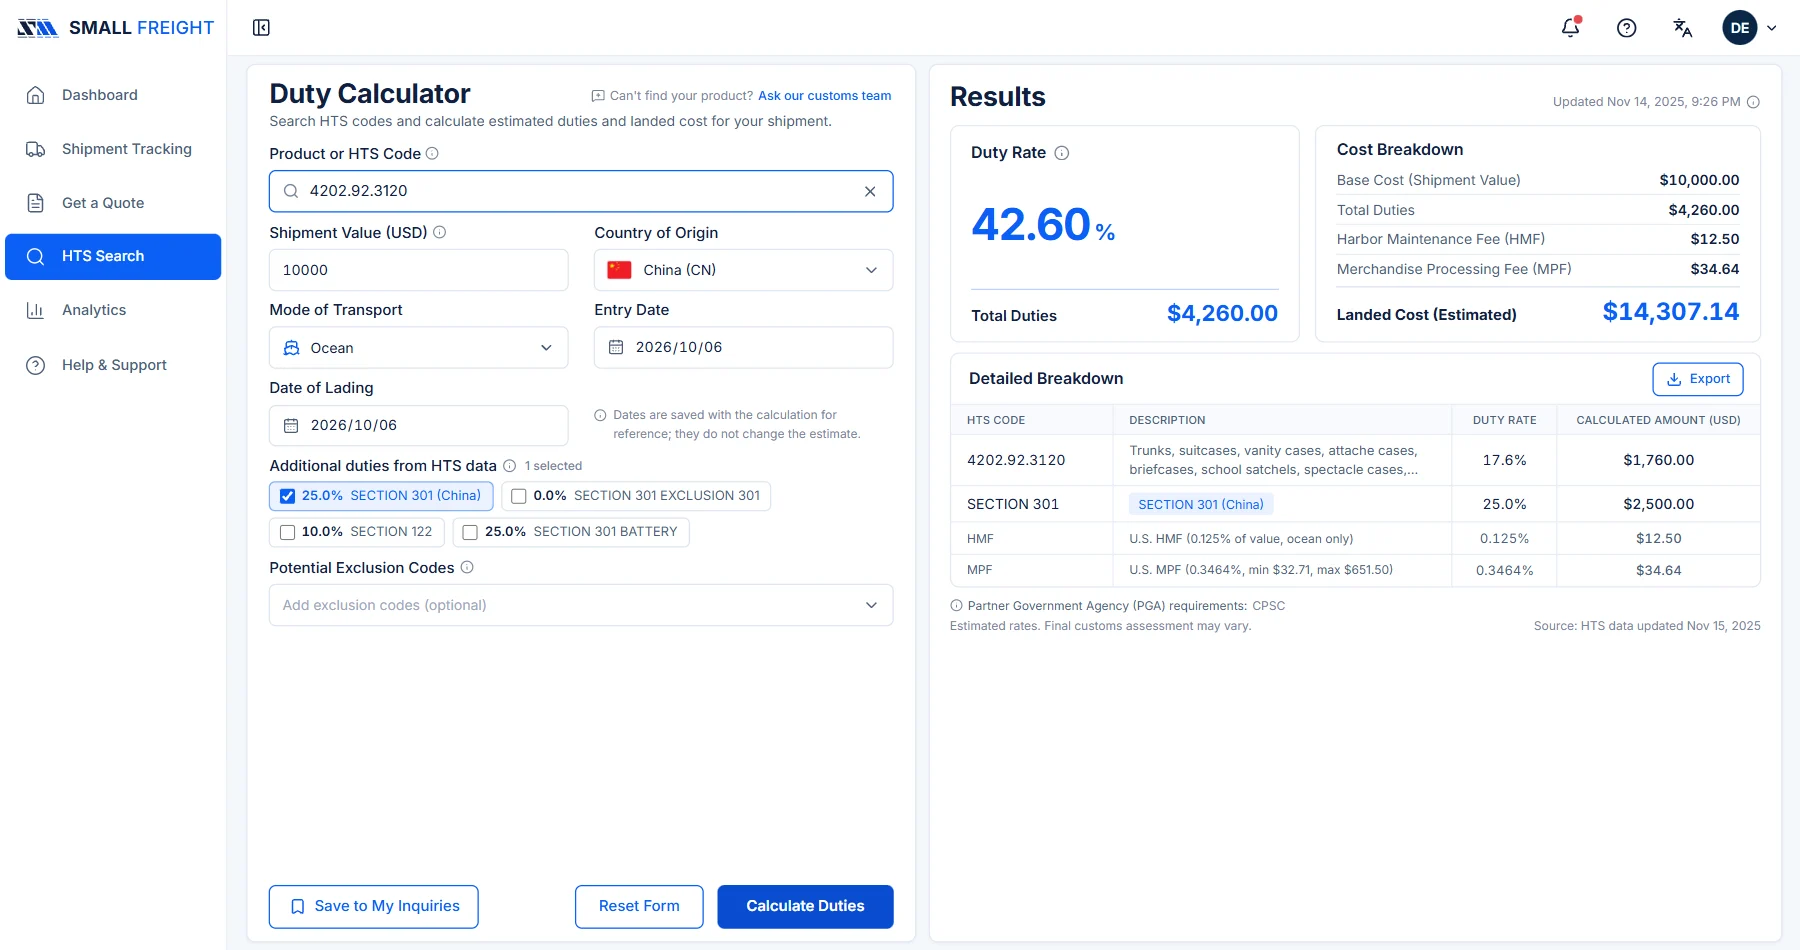
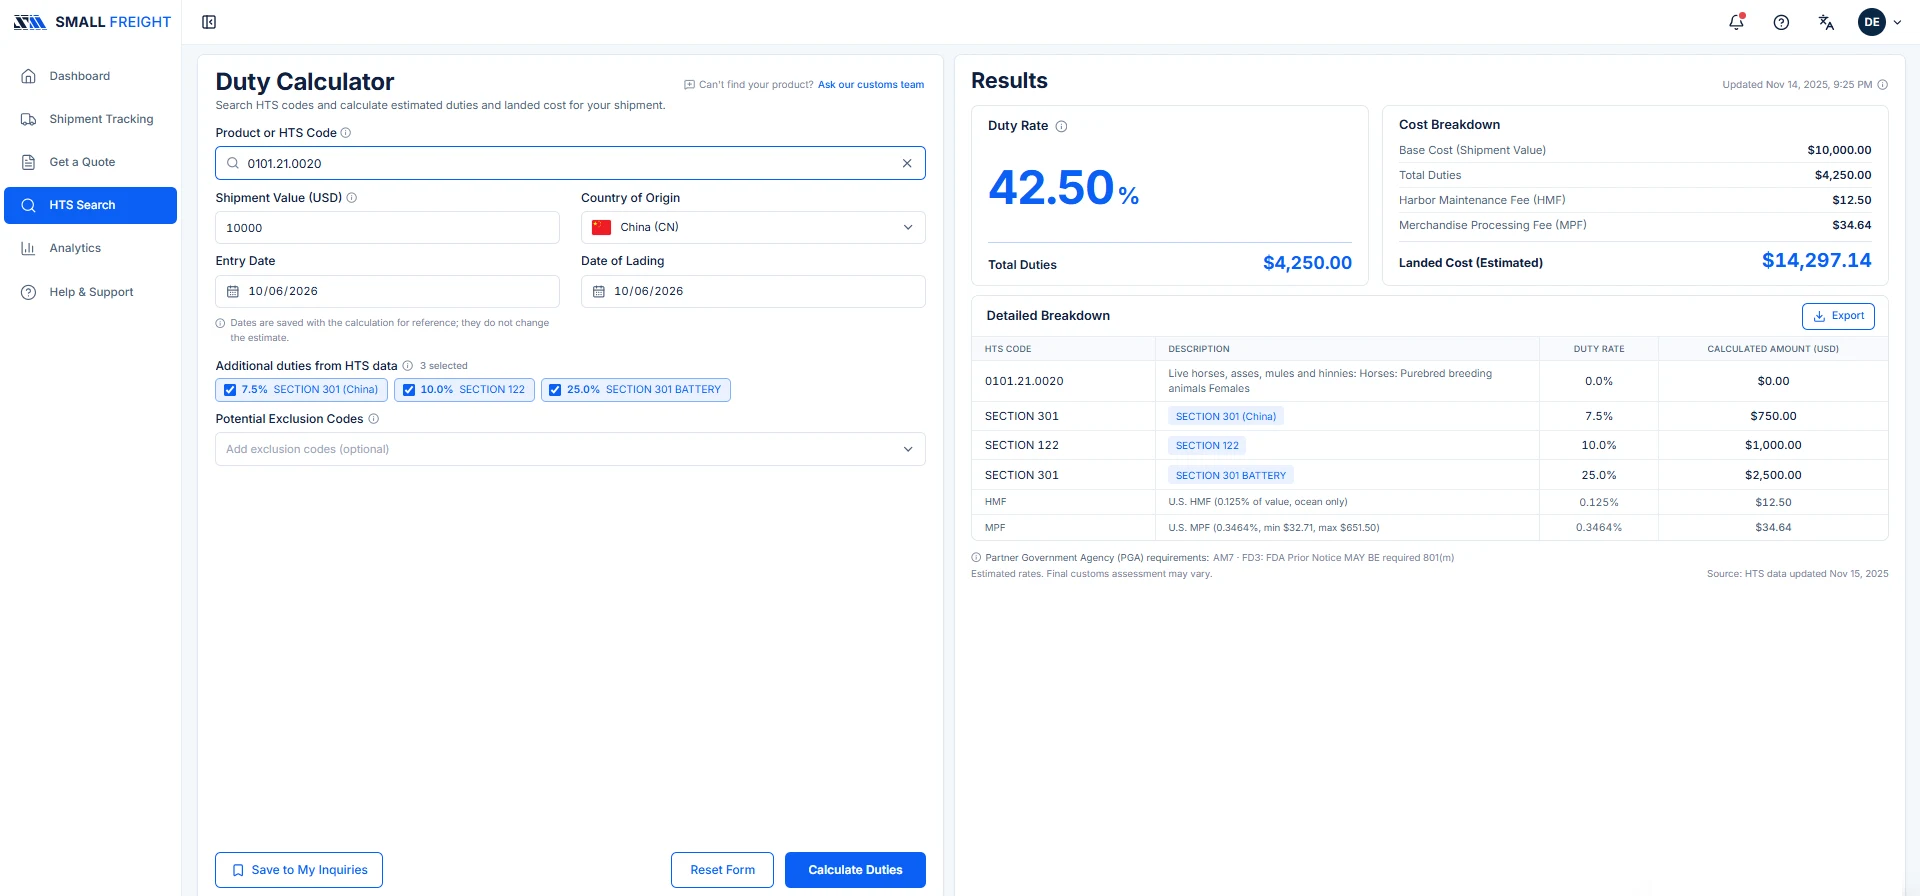
Small Freight page: use the provided portal screenshots
Replaces the screenshots with the ones from image10 (header badge and
input-method toolbar removed, cropped to content), and swaps the photos
from the previous, misplaced image10 batch for existing site images.

diff --git a/small-freight.html b/small-freight.html
@@ -62,7 +62,7 @@
 
   <!-- ======================== HERO ======================== -->
   <section class="sp-hero sf-hero">
-    <img src="image/sf-hero.jpg" alt="" class="sp-hero-bg sf-hero-bg" />
+    <img src="image/hero-port.jpg" alt="" class="sp-hero-bg sf-hero-bg" />
     <div class="container sp-hero-grid">
       <div class="sp-hero-text">
         <div class="sf-brand reveal">
@@ -84,7 +84,7 @@
       </div>
 
       <div class="sp-app sp-shot sp-hero-app reveal">
-        <img src="image/sf-shot-dashboard.webp" width="1800" height="950" alt="SMALL FREIGHT dashboard with shipment search, LTL and drayage quote forms, HTS search, recent shipments and a shipment overview chart" />
+        <img src="image/sf-shot-dashboard.webp" width="1920" height="670" alt="SMALL FREIGHT dashboard with shipment search, LTL and drayage quote forms, HTS search, recent shipments and a shipment overview chart" />
       </div>
     </div>
   </section>
@@ -136,28 +136,28 @@
       </div>
       <div class="sf-benefits stagger-reveal">
         <div class="sf-benefit">
-          <img src="image/sf-packing.jpg" alt="Warehouse worker packing a carton" loading="lazy" />
+          <img src="image/wh-pack.jpg" alt="Warehouse staff packing cartons" loading="lazy" />
           <div>
             <b data-zh="节省时间">Save Time</b>
             <span data-zh="自助式工具让日常物流工作更高效。">Self-service tools that streamline your logistics workflow.</span>
           </div>
         </div>
         <div class="sf-benefit">
-          <img src="image/sf-loading.jpg" alt="Forklift loading pallets into a trailer at a dock door" loading="lazy" />
+          <img src="image/wh-ship.jpg" alt="Delivery truck at the warehouse loading docks" loading="lazy" />
           <div>
             <b data-zh="降低成本">Reduce Costs</b>
             <span data-zh="比较报价，提前估算到岸成本。">Compare rates and estimate total landed costs upfront.</span>
           </div>
         </div>
         <div class="sf-benefit">
-          <img src="image/sf-yard.jpg" alt="Inspector checking containers in a port yard" loading="lazy" />
+          <img src="image/svc-customs.jpg" alt="Customs clearance at a port" loading="lazy" />
           <div>
             <b data-zh="提升可视化">Increase Visibility</b>
             <span data-zh="实时更新与关键节点，追踪每一票货物。">Track every shipment with real-time updates and key milestones.</span>
           </div>
         </div>
         <div class="sf-benefit">
-          <img src="image/sf-ocean.jpg" alt="Container ship leaving a port" loading="lazy" />
+          <img src="image/svc-ocean.jpg" alt="Container ship at sea" loading="lazy" />
           <div>
             <b data-zh="放心运输">Ship with Confidence</b>
             <span data-zh="行业经验与专属客服团队全程支持。">Backed by industry expertise and dedicated customer support.</span>
@@ -183,7 +183,7 @@
         <a href="track.html" class="sp-btn sp-btn-primary sf-feature-btn reveal"><span data-zh="追踪货物">Track a Shipment</span> <svg width="16" height="16" viewBox="0 0 24 24" fill="none" stroke="currentColor" stroke-width="2.5" stroke-linecap="round" stroke-linejoin="round" aria-hidden="true"><line x1="5" y1="12" x2="19" y2="12"/><polyline points="12 5 19 12 12 19"/></svg></a>
       </div>
       <div class="sp-app sp-shot reveal">
-        <img src="image/sf-shot-shipments.webp" width="1800" height="950" alt="Shipment detail with a milestone bar from Booked to Delivered, route map from Hamburg to Long Beach, tracking history and shipment details" loading="lazy" />
+        <img src="image/sf-shot-shipments.webp" width="1920" height="812" alt="Shipment Tracking list with status filters and a milestone progress bar from Booked to Delivered for each shipment" loading="lazy" />
       </div>
     </div>
   </section>
@@ -241,14 +241,14 @@
         <a href="https://coolcopa0303-png.github.io/smallfreight/login/" target="_blank" rel="noopener" class="sp-btn sp-btn-primary sf-feature-btn reveal"><span data-zh="获取 LTL 报价">Get an LTL Quote</span> <svg width="16" height="16" viewBox="0 0 24 24" fill="none" stroke="currentColor" stroke-width="2.5" stroke-linecap="round" stroke-linejoin="round" aria-hidden="true"><line x1="5" y1="12" x2="19" y2="12"/><polyline points="12 5 19 12 12 19"/></svg></a>
       </div>
       <div class="sp-app sp-shot reveal">
-        <img src="image/sf-shot-ltl.webp" width="1800" height="950" alt="LTL quote from College Point, NY to Chicago, IL with a route map, route details and six carrier rates" loading="lazy" />
+        <img src="image/sf-shot-ltl.webp" width="1920" height="891" alt="LTL quote from Fresh Meadows, NY to Whitestone, NY with a route map, route details and six carrier rates" loading="lazy" />
       </div>
     </div>
   </section>
 
   <!-- ======================== DRAYAGE ======================== -->
   <section class="sp-feature sf-drayage">
-    <img src="image/sf-truck.jpg" alt="" class="sf-section-bg" loading="lazy" />
+    <img src="image/im-port-truck.jpg" alt="" class="sf-section-bg" loading="lazy" />
     <div class="container sp-feature-grid">
       <div class="sp-feature-text">
         <span class="sp-kicker reveal" data-zh="港口到门">Port-to-Door Solutions</span>
@@ -263,7 +263,7 @@
         <a href="https://coolcopa0303-png.github.io/smallfreight/login/" target="_blank" rel="noopener" class="sp-btn sp-btn-primary sf-feature-btn reveal"><span data-zh="获取拖车报价">Get a Drayage Quote</span> <svg width="16" height="16" viewBox="0 0 24 24" fill="none" stroke="currentColor" stroke-width="2.5" stroke-linecap="round" stroke-linejoin="round" aria-hidden="true"><line x1="5" y1="12" x2="19" y2="12"/><polyline points="12 5 19 12 12 19"/></svg></a>
       </div>
       <div class="sp-app sp-shot reveal">
-        <img src="image/sf-shot-dray.webp" width="1800" height="950" alt="Drayage quote from the Port of Los Angeles to Ontario, CA with base rate, chassis, estimated total and route map" loading="lazy" />
+        <img src="image/sf-shot-dray.webp" width="1920" height="720" alt="Drayage quote from the Port of Los Angeles to Rancho Cucamonga, CA with base rate, chassis, estimated total, accessorial items and route map" loading="lazy" />
       </div>
     </div>
     <div class="container">
@@ -297,7 +297,7 @@
         <a href="https://coolcopa0303-png.github.io/smallfreight/login/" target="_blank" rel="noopener" class="sp-btn sp-btn-primary sf-feature-btn reveal"><span data-zh="试用关税计算器">Try the HTS Calculator</span> <svg width="16" height="16" viewBox="0 0 24 24" fill="none" stroke="currentColor" stroke-width="2.5" stroke-linecap="round" stroke-linejoin="round" aria-hidden="true"><line x1="5" y1="12" x2="19" y2="12"/><polyline points="12 5 19 12 12 19"/></svg></a>
       </div>
       <div class="sp-app sp-shot reveal">
-        <img src="image/sf-shot-hts.webp" width="1800" height="950" alt="Duty calculator for HTS 4202.92.3120 showing a 42.6% duty rate, cost breakdown and landed cost" loading="lazy" />
+        <img src="image/sf-shot-hts.webp" width="1920" height="896" alt="Duty calculator showing a 42.50% duty rate including Section 301 and Section 122 duties, cost breakdown and landed cost" loading="lazy" />
       </div>
     </div>
   </section>
@@ -318,7 +318,7 @@
         <a href="https://coolcopa0303-png.github.io/smallfreight/login/" target="_blank" rel="noopener" class="sp-btn sp-btn-primary sf-feature-btn reveal"><span data-zh="查看分析">View Analytics</span> <svg width="16" height="16" viewBox="0 0 24 24" fill="none" stroke="currentColor" stroke-width="2.5" stroke-linecap="round" stroke-linejoin="round" aria-hidden="true"><line x1="5" y1="12" x2="19" y2="12"/><polyline points="12 5 19 12 12 19"/></svg></a>
       </div>
       <div class="sp-app sp-shot reveal">
-        <img src="image/sf-shot-analytics.webp" width="1800" height="950" alt="Analytics with total, active and delivered shipment counts, shipments by ETA month, status distribution, service mix and mode mix" loading="lazy" />
+        <img src="image/sf-shot-analytics.webp" width="1920" height="680" alt="Analytics with total, active and delivered shipment counts, shipments by ETA month, status distribution, service mix and mode mix" loading="lazy" />
       </div>
     </div>
   </section>
@@ -345,7 +345,7 @@
   <section class="sp-start sf-start">
     <div class="container">
       <div class="sp-start-box sf-start-box reveal">
-        <img src="image/sf-harbor.jpg" alt="" class="sf-start-bg" loading="lazy" />
+        <img src="image/wh-cta.jpg" alt="" class="sf-start-bg" loading="lazy" />
         <div class="sp-start-main">
           <span class="sp-kicker" data-zh="立即开始">Get Started Today</span>
           <h2 data-zh="准备好简化您的物流了吗？">Ready to Simplify Your Logistics?</h2>
